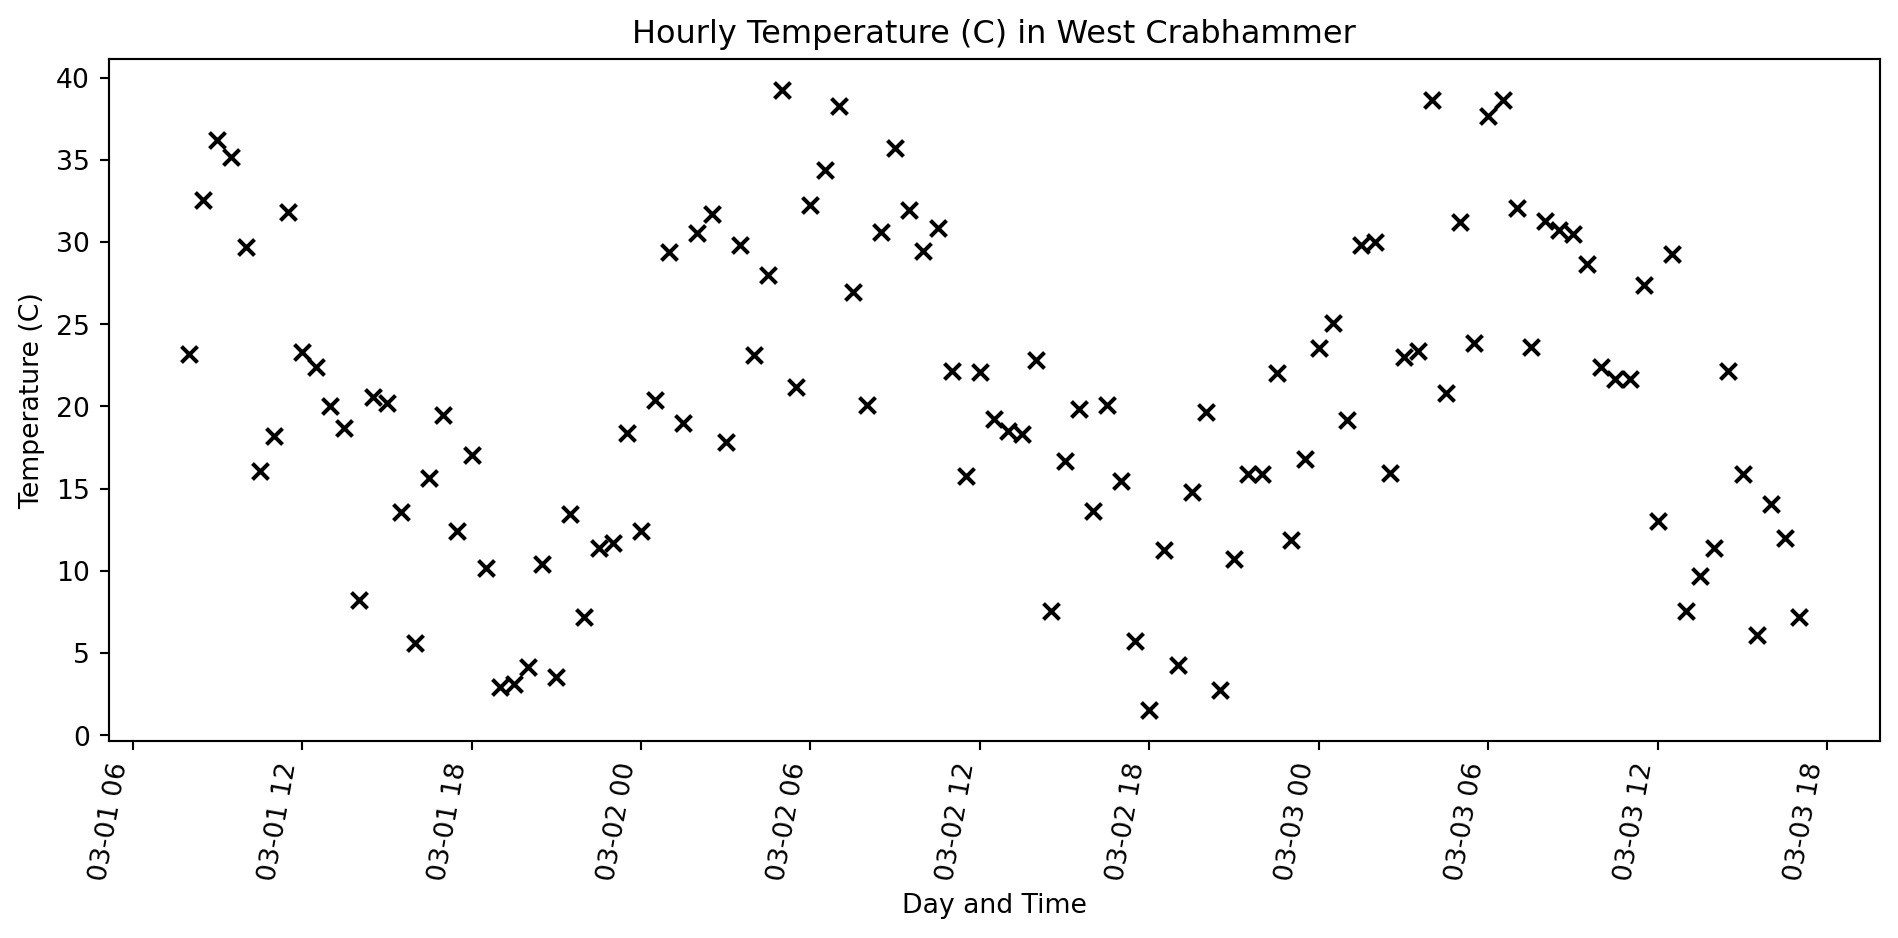
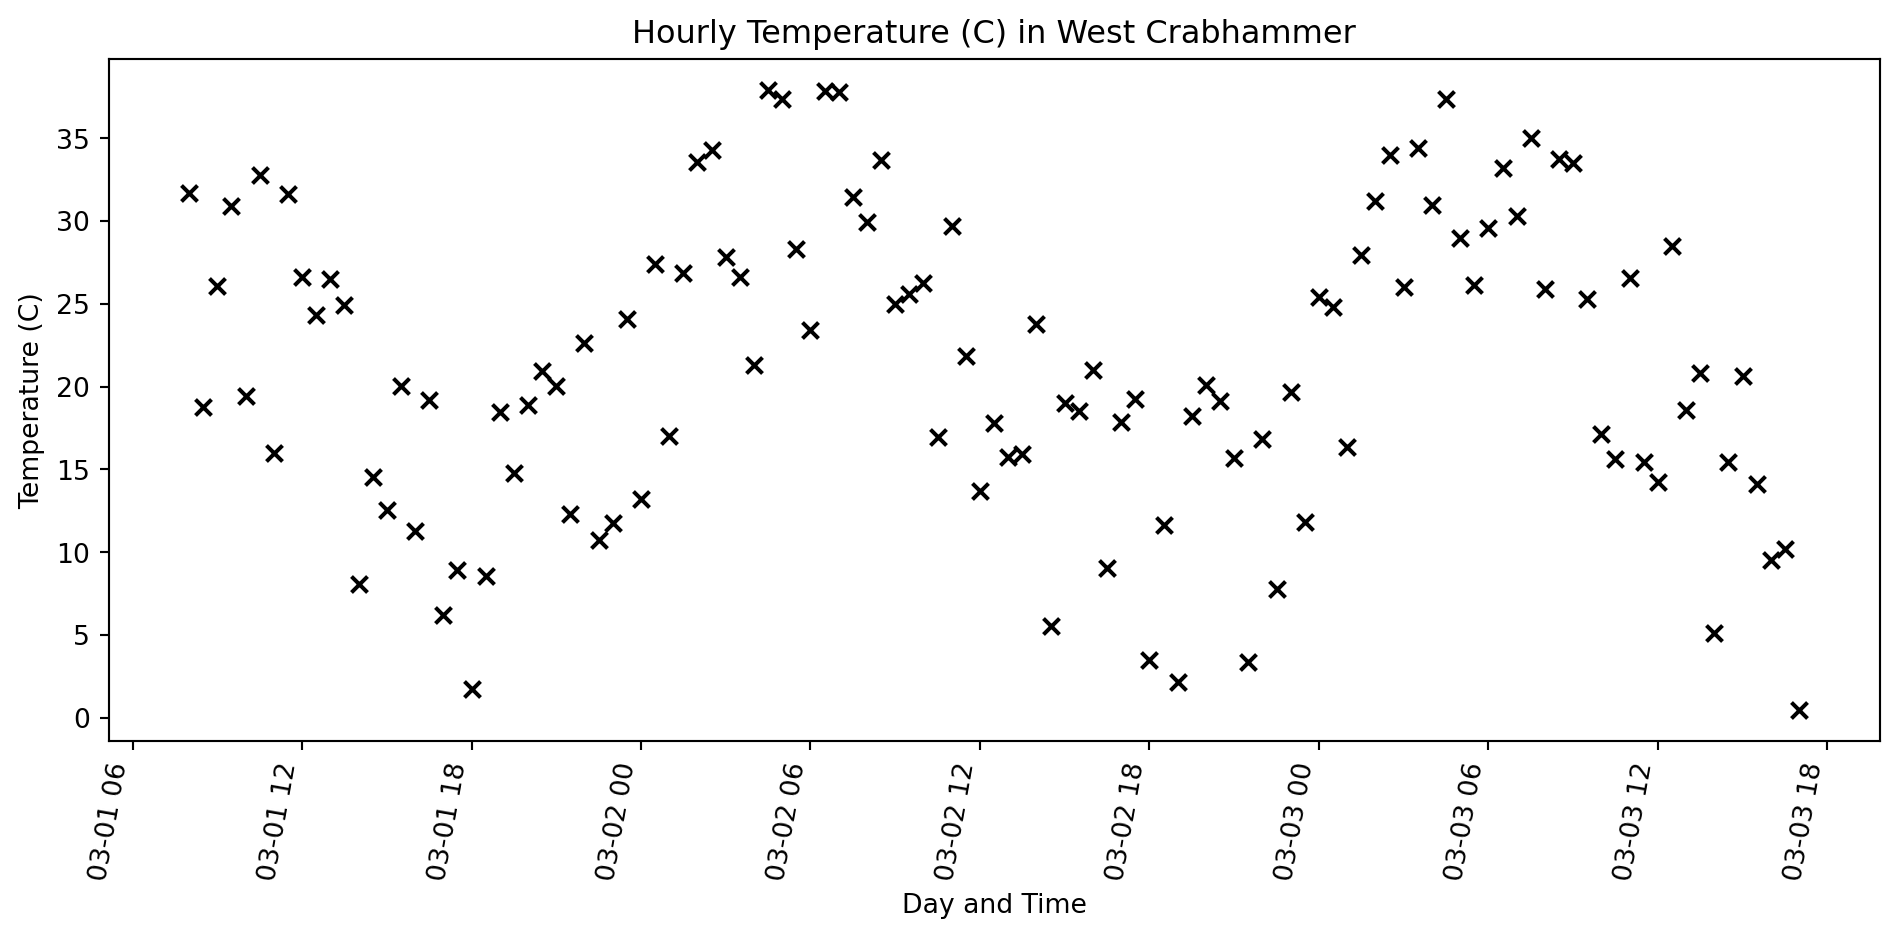
slideshow work

diff --git a/docs/python_geospatial_basics.html b/docs/python_geospatial_basics.html
@@ -261,7 +261,7 @@
 <section id="basic-numbers" class="slide level2">
 <h2>Basic Numbers</h2>
 <p>Floats and Ints don’t do anything all that surprising</p>
-<div id="3a9a7069" class="cell columns column-output-location" data-execution_count="1">
+<div id="63767249" class="cell columns column-output-location" data-execution_count="1">
 <div class="column">
 <div class="sourceCode cell-code" id="cb1"><pre class="sourceCode numberSource python number-lines code-with-copy"><code class="sourceCode python"><span id="cb1-1"><a></a>a <span class="op">=</span> <span class="dv">2</span> <span class="op">+</span> <span class="dv">2</span></span>
 <span id="cb1-2"><a></a>b <span class="op">=</span> <span class="fl">2.0</span> <span class="op">+</span> <span class="fl">2.0</span></span>
@@ -288,7 +288,7 @@ but 5 // 4 is 1</code></pre>
 <section id="sequences" class="slide level2">
 <h2>Sequences</h2>
 <p>Lists, tuples, and strings ae all sequences</p>
-<div id="ff34573e" class="cell columns column-output-location" data-execution_count="2">
+<div id="3fa87323" class="cell columns column-output-location" data-execution_count="2">
 <div class="column">
 <div class="sourceCode cell-code" id="cb3"><pre class="sourceCode numberSource python number-lines code-with-copy"><code class="sourceCode python"><span id="cb3-1"><a></a><span class="co"># a list</span></span>
 <span id="cb3-2"><a></a>a_list <span class="op">=</span> [<span class="dv">1</span>, <span class="dv">2</span>, <span class="dv">3</span>, <span class="dv">4</span>, <span class="dv">5</span>, <span class="dv">6</span>, <span class="dv">7</span>, <span class="dv">8</span>, <span class="dv">9</span>]</span>
@@ -335,7 +335,7 @@ neushorn?</code></pre>
 </section>
 <section id="dictionaries" class="slide level2">
 <h2>Dictionaries</h2>
-<div id="5a481a48" class="cell columns column-output-location" data-execution_count="3">
+<div id="ef6df76f" class="cell columns column-output-location" data-execution_count="3">
 <div class="column">
 <div class="sourceCode cell-code" id="cb5"><pre class="sourceCode numberSource python number-lines code-with-copy"><code class="sourceCode python"><span id="cb5-1"><a></a>pets <span class="op">=</span> {<span class="st">'honden'</span>: <span class="dv">26</span>, <span class="st">'katten'</span>: <span class="dv">100</span>}</span>
 <span id="cb5-2"><a></a></span>
@@ -354,7 +354,7 @@ neushorn?</code></pre>
 </section>
 <section id="iterating" class="slide level2">
 <h2>Iterating</h2>
-<div id="1e004220" class="cell columns column-output-location" data-execution_count="4">
+<div id="28973db0" class="cell columns column-output-location" data-execution_count="4">
 <div class="column">
 <div class="sourceCode cell-code" id="cb7"><pre class="sourceCode numberSource python number-lines code-with-copy"><code class="sourceCode python"><span id="cb7-1"><a></a>a <span class="op">=</span> [<span class="dv">1</span>, <span class="dv">2</span>, <span class="dv">3</span>, <span class="dv">4</span>, <span class="dv">5</span>, <span class="dv">6</span>, <span class="dv">7</span>, <span class="dv">8</span>, <span class="dv">9</span>]</span>
 <span id="cb7-2"><a></a></span>
@@ -383,7 +383,7 @@ is the same as
 </section>
 <section id="pandas-dataframe" class="slide level2 scrollable">
 <h2>Pandas DataFrame</h2>
-<div id="d83f4809" class="cell columns column-output-location" data-execution_count="5">
+<div id="81b6dbc5" class="cell columns column-output-location" data-execution_count="5">
 <div class="column">
 <div class="sourceCode cell-code" id="cb9"><pre class="sourceCode numberSource python number-lines code-with-copy"><code class="sourceCode python"><span id="cb9-1"><a></a><span class="im">from</span> datetime <span class="im">import</span> datetime, timedelta</span>
 <span id="cb9-2"><a></a><span class="im">from</span> random <span class="im">import</span> uniform</span>
@@ -418,7 +418,7 @@ is the same as
 <span id="cb9-31"><a></a></span>
 <span id="cb9-32"><a></a>df.head()</span></code><button title="Copy to Clipboard" class="code-copy-button"><i class="bi"></i></button></pre></div>
 </div><div class="column">
-<div class="cell-output cell-output-display" data-execution_count="41">
+<div class="cell-output cell-output-display" data-execution_count="50">
 <div>
 <style scoped="">
     .dataframe tbody tr th:only-of-type {
@@ -446,27 +446,27 @@ is the same as
 <tr class="odd">
 <td data-quarto-table-cell-role="th">0</td>
 <td>2025-03-01 08:00:00</td>
-<td>29.972888</td>
+<td>33.093319</td>
 </tr>
 <tr class="even">
 <td data-quarto-table-cell-role="th">1</td>
 <td>2025-03-01 08:30:00</td>
-<td>21.360739</td>
+<td>30.374741</td>
 </tr>
 <tr class="odd">
 <td data-quarto-table-cell-role="th">2</td>
 <td>2025-03-01 09:00:00</td>
-<td>33.774867</td>
+<td>25.824631</td>
 </tr>
 <tr class="even">
 <td data-quarto-table-cell-role="th">3</td>
 <td>2025-03-01 09:30:00</td>
-<td>34.278398</td>
+<td>29.433636</td>
 </tr>
 <tr class="odd">
 <td data-quarto-table-cell-role="th">4</td>
 <td>2025-03-01 10:00:00</td>
-<td>34.730294</td>
+<td>26.576495</td>
 </tr>
 </tbody>
 </table>
@@ -477,7 +477,7 @@ is the same as
 </section>
 <section id="pandas-dataframe-cont." class="slide level2 scrollable">
 <h2>Pandas DataFrame Cont.</h2>
-<div id="cf24401f" class="cell columns column-output-location" data-execution_count="6">
+<div id="0c73a6f5" class="cell columns column-output-location" data-execution_count="6">
 <div class="column">
 <div class="sourceCode cell-code" id="cb10"><pre class="sourceCode numberSource python number-lines code-with-copy"><code class="sourceCode python"><span id="cb10-1"><a></a><span class="im">from</span> datetime <span class="im">import</span> datetime, timedelta</span>
 <span id="cb10-2"><a></a><span class="im">from</span> random <span class="im">import</span> uniform</span>
@@ -575,13 +575,7 @@ Figure&nbsp;1: A line plot on a polar axis
 <h2>Homework</h2>
 <p>A big part of coding is knowing how to use google (or some stupid AI thing, try searching first, the answers are there on the internet do not require the construction of a nuclear power plant to answer)</p>
 
-<img src="https://xkcd.com/1838" class="r-stretch"><p>If you are choosing Python as you language in this course, create a jupyter notebook and do the following:</p>
-<ul>
-<li class="fragment">Download the results from the class survey from <a href="https://docs.google.com/spreadsheets/d/17qg3d2N1WmE3cIoz5SGpP2AGesVNmaZTwu4ljIRii4U/edit?usp=sharing">here</a> as a csv file.</li>
-<li class="fragment">Read the csv into a Pandas DataFrame.</li>
-<li class="fragment">The headers are a mess! Change the column names to be reasonable. Remember, if you want to be able to access the data as an attribute, the column names need to not have spaces in them. Hint: <em>columns</em> is a mutable attribute of the dataframe so <code>df.columns = some_list_of_the_correct_length</code> will assign new column names.</li>
-</ul>
-<p>If you are only going the R route, do the above, but in R. (Hints Below.) + data &lt;- read.csv(“my_data.csv”)</p>
+<img src="https://xkcd.com/1838" class="r-stretch"><p>If you are choosing Python as you language in this course, create a jupyter notebook and do the following: ::: + Download the results from the class survey from <a href="https://docs.google.com/spreadsheets/d/17qg3d2N1WmE3cIoz5SGpP2AGesVNmaZTwu4ljIRii4U/edit?usp=sharing">here</a> as a csv file. + Read the csv into a Pandas DataFrame. + The headers are a mess! Change the column names to be reasonable. Remember, if you want to be able to access the data as an attribute, the column names need to not have spaces in them. Hint: <em>columns</em> is a mutable attribute of the dataframe so <code>df.columns = some_list_of_the_correct_length</code> will assign new column names. ::: If you are only going the R route, do the above, but in R. (Hints Below.) ::: + data &lt;- read.csv(“my_data.csv”) :::</p>
 </section></section>
 <section>
 <section id="exploring-vector-data-with-geopandas" class="title-slide slide level1 center" data-background-image="images/pandas.png">
@@ -620,7 +614,7 @@ Figure&nbsp;1: A line plot on a polar axis
 </section>
 <section id="polygon" class="slide level2">
 <h2>Polygon</h2>
-<div id="d8ee19a9" class="cell columns column-output-location" data-execution_count="8">
+<div id="6900dd25" class="cell columns column-output-location" data-execution_count="8">
 <div class="column">
 <div class="sourceCode cell-code" id="cb12"><pre class="sourceCode numberSource python number-lines code-with-copy"><code class="sourceCode python"><span id="cb12-1"><a></a><span class="im">from</span> shapely <span class="im">import</span> Polygon</span>
 <span id="cb12-2"><a></a></span>
@@ -635,7 +629,7 @@ Figure&nbsp;1: A line plot on a polar axis
 <div class="cell-output cell-output-stdout">
 <pre><code>True</code></pre>
 </div>
-<div class="cell-output cell-output-display" data-execution_count="44">
+<div class="cell-output cell-output-display" data-execution_count="53">
 <div>
 <figure>
 <p><img data-src="python_geospatial_basics_files/figure-revealjs/cell-9-output-2.svg"></p>
@@ -647,7 +641,7 @@ Figure&nbsp;1: A line plot on a polar axis
 <section id="reading-files" class="slide level2">
 <h2>Reading Files</h2>
 <p>Here we will read a geojson using the <code>read_file</code> method.</p>
-<div id="a639a9c4" class="cell columns column-output-location" data-execution_count="9">
+<div id="0d2bea7a" class="cell columns column-output-location" data-execution_count="9">
 <div class="column">
 <div class="sourceCode cell-code" id="cb14"><pre class="sourceCode numberSource python number-lines code-with-copy"><code class="sourceCode python"><span id="cb14-1"><a></a><span class="im">from</span> pathlib <span class="im">import</span> Path</span>
 <span id="cb14-2"><a></a><span class="im">import</span> geopandas <span class="im">as</span> gpd</span>
